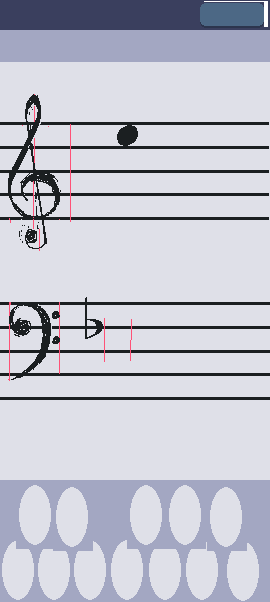
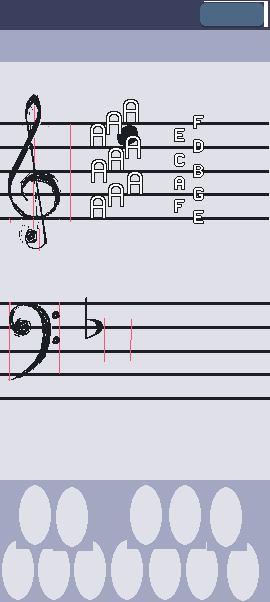
add guiden notes

Changed region(s): [[0.3259, 0.1495, 0.5333, 0.3588], [0.7111, 0.1794, 0.7704, 0.3887], [0.6222, 0.2093, 0.6815, 0.3588]]

diff --git a/notepractice/notepractice.go b/notepractice/notepractice.go
@@ -36,6 +36,7 @@ type Game struct {
 	session      *session
 	buttons      *buttons
 	clickTimer   float64
+	showGuide    bool
 }
 
 func NewGame() *Game {
@@ -62,11 +63,14 @@ func NewGame() *Game {
 			"noteG":               LoadImage("res/noteG.png"),
 			"sharpmod":            LoadImage("res/sharpmod.png"),
 			"flatmod":             LoadImage("res/flatmod.png"),
+			"guideTreble":         LoadImage("res/guide-treble.png"),
+			"guideBass":           LoadImage("res/guide-bass.png"),
 		},
 		font:         LoadFont("res/FSEX302.ttf"),
 		inputHandler: NewInputHandler(),
 		session:      NewSession(),
 		buttons:      NewButtons(),
+		showGuide:    false,
 	}
 
 	g.session.nextNote()
@@ -92,8 +96,13 @@ func (g *Game) Draw(screen *ebiten.Image) {
 		}
 	}
 
+	if g.inputHandler.hasInput && g.inputHandler.releasedInput {
+		// is clicking on guide button
+		if isPointInRect(g.inputHandler.pos, 232, 2, 32, 26) {
+			g.showGuide = !g.showGuide
+		}
+	}
 	if g.inputHandler.hasInput && g.inputHandler.releasedInput && g.clickTimer <= 0 {
-		g.drawImage(screen, "noteButtonCorrect", g.inputHandler.pos)
 		clickedAnyButton := false
 		for _, b := range g.buttons.allButtons {
 			if b.checkCollision(g.inputHandler.pos) {
@@ -146,6 +155,12 @@ func (g *Game) Draw(screen *ebiten.Image) {
 	g.drawRect(screen, Vector2{X: 0, Y: unit * 15}, Vector2{X: screenWidth, Y: unit * 4}, buttonBackgroundColor)
 	for _, b := range g.buttons.allButtons {
 		b.draw(screen, g)
+	}
+
+	// note guide
+	if g.showGuide {
+		g.drawImage(screen, "guideTreble", Vector2{X: 78, Y: 82})
+		g.drawImage(screen, "guideBass", Vector2{X: 78, Y: 260})
 	}
 
 	g.drawRect(screen, Vector2{Y: unit * 19}, Vector2{X: screenWidth, Y: unit * 2}, darkHeaderColor)

diff --git a/notepractice/button.go b/notepractice/button.go
@@ -125,12 +125,5 @@ func (b *button) draw(screen *ebiten.Image, g *Game) {
 }
 
 func (b *button) checkCollision(mpos Vector2) bool {
-	rx, ry, sx, sy := b.pos.X, b.pos.Y, b.size.X, b.size.Y
-	if mpos.X > rx+sx || mpos.X < rx {
-		return false
-	}
-	if mpos.Y > ry+sy || mpos.Y < ry {
-		return false
-	}
-	return true
+	return isPointInRect(mpos, b.pos.X, b.pos.Y, b.size.X, b.size.Y)
 }

diff --git a/notepractice/common.go b/notepractice/common.go
@@ -50,3 +50,13 @@ type Vector2 struct {
 	X float64
 	Y float64
 }
+
+func isPointInRect(point Vector2, rx, ry, sx, sy float64) bool {
+	if point.X > rx+sx || point.X < rx {
+		return false
+	}
+	if point.Y > ry+sy || point.Y < ry {
+		return false
+	}
+	return true
+}

diff --git a/README.md b/README.md
@@ -1,10 +1,8 @@
 # TODO
 
-hide/show guide
-exit without crashing - ebiten OK error ?
-
 # DONE
 
+hide/show guide
 proper chaaracters for buttons
 add icon
 remove quit button
